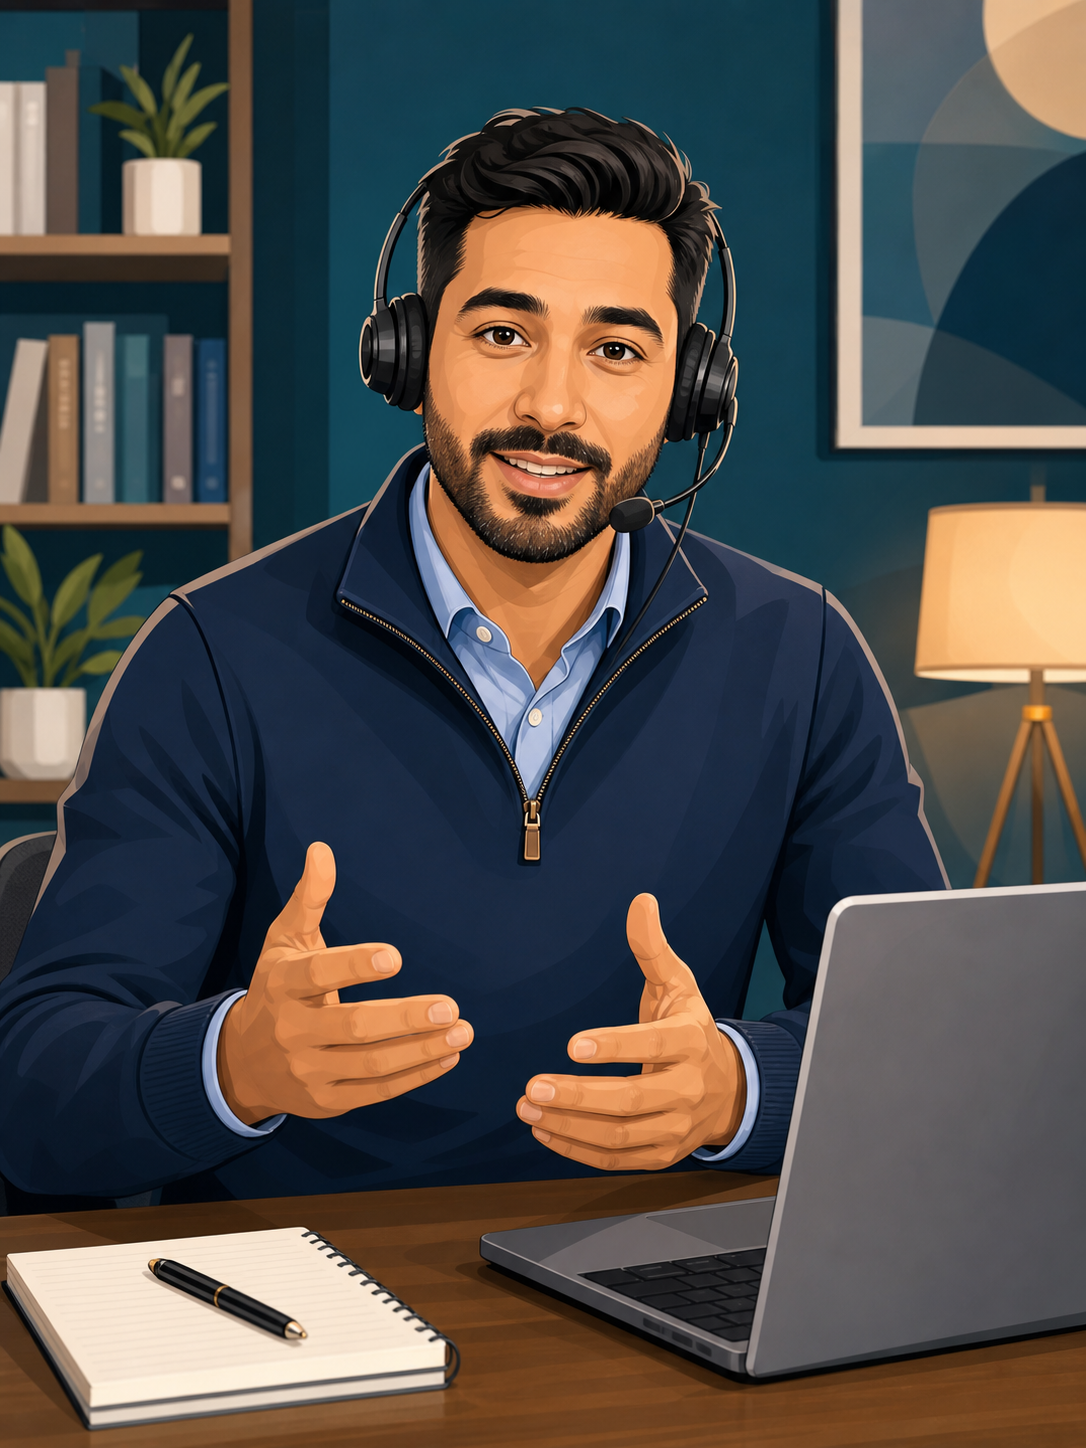
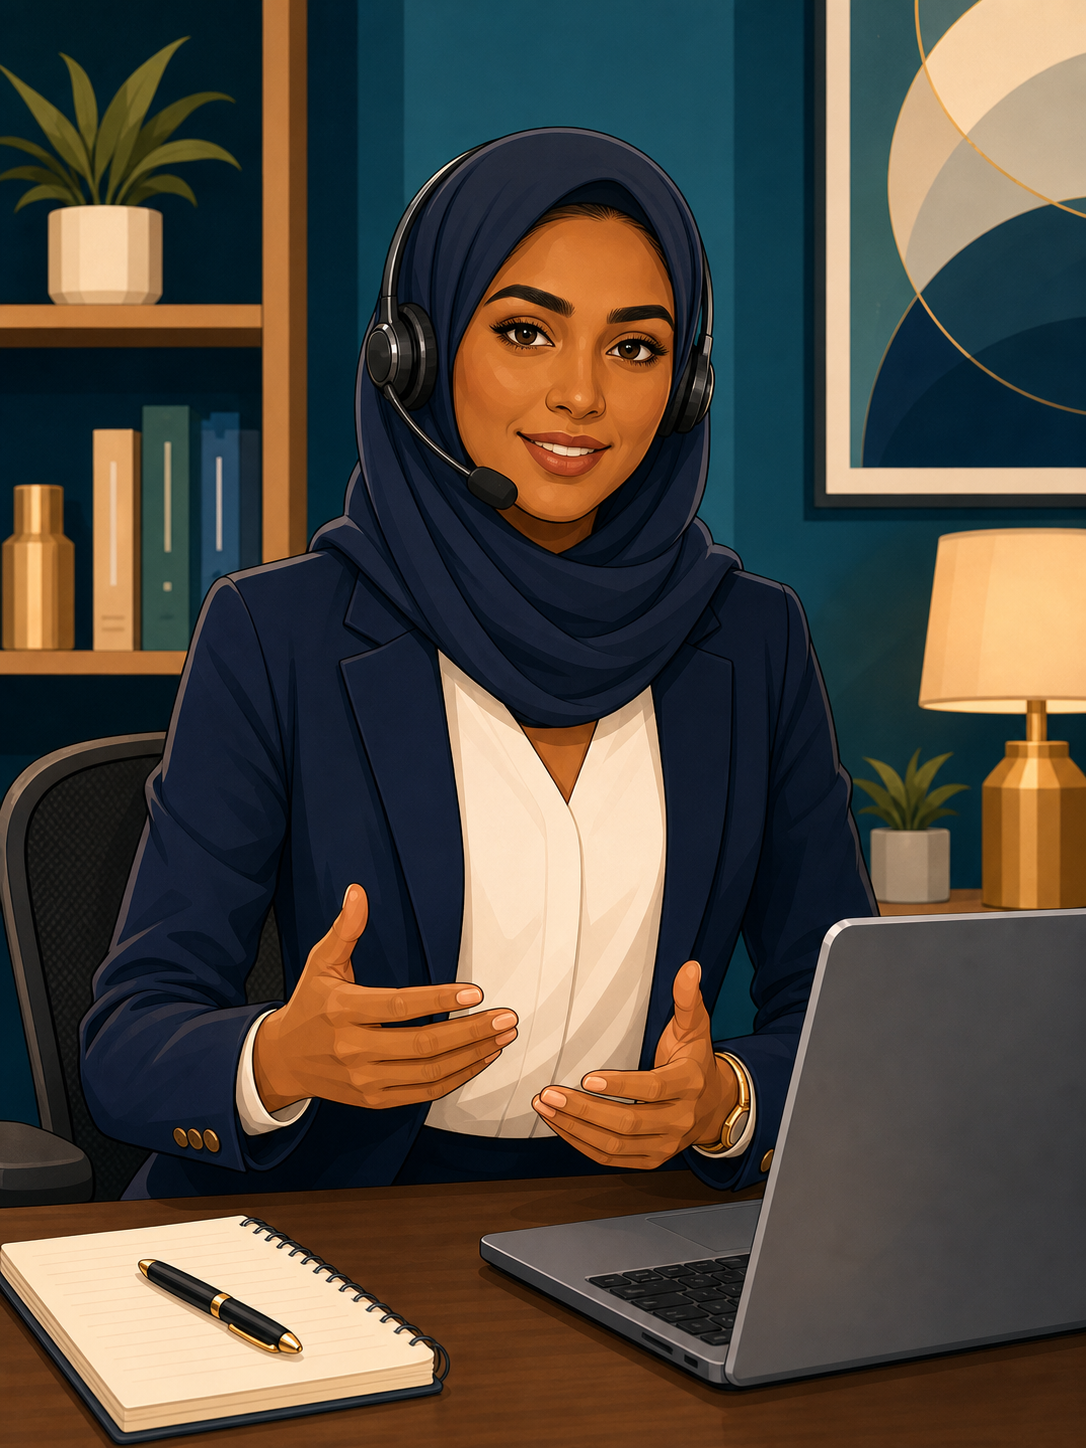
roadmap added

diff --git a/src/App.css b/src/App.css
@@ -438,7 +438,8 @@ button {
 }
 
 .nav-coral {
-  animation: hot-tab-pulse 1.9s ease-in-out infinite;
+  transform-origin: center;
+  animation: roadmap-heartbeat 1.65s ease-in-out infinite;
 }
 
 .nav-coral::after {
@@ -656,6 +657,41 @@ button {
     box-shadow:
       0 12px 28px rgba(127, 50, 31, 0.18),
       0 0 0 5px rgba(255, 115, 72, 0.16);
+  }
+}
+
+@keyframes roadmap-heartbeat {
+  0%,
+  100% {
+    transform: scale(1);
+    box-shadow:
+      0 8px 18px rgba(7, 22, 47, 0.1),
+      0 0 0 0 rgba(215, 169, 40, 0);
+  }
+
+  14% {
+    transform: scale(1.045);
+    box-shadow:
+      0 14px 30px rgba(7, 22, 47, 0.16),
+      0 0 0 4px rgba(215, 169, 40, 0.18);
+  }
+
+  24% {
+    transform: scale(1);
+    box-shadow:
+      0 8px 18px rgba(7, 22, 47, 0.1),
+      0 0 0 0 rgba(215, 169, 40, 0);
+  }
+
+  34% {
+    transform: scale(1.032);
+    box-shadow:
+      0 12px 26px rgba(7, 22, 47, 0.14),
+      0 0 0 3px rgba(215, 169, 40, 0.14);
+  }
+
+  48% {
+    transform: scale(1);
   }
 }
 

diff --git a/src/components/DeescalationGame.jsx b/src/components/DeescalationGame.jsx
@@ -1,6 +1,11 @@
 import { useMemo, useState } from 'react'
-import customerFace from '../assets/customer-face.png'
 import callCoach from '../assets/call-coach.png'
+import customerAndre from '../assets/customer-andre.png'
+import customerCole from '../assets/customer-cole.png'
+import customerJules from '../assets/customer-jules.png'
+import customerMara from '../assets/customer-mara.png'
+import customerPriya from '../assets/customer-priya.png'
+import customerSam from '../assets/customer-sam.png'
 
 const dispositionLevels = [
   {
@@ -109,6 +114,7 @@ const customerScenarios = [
   {
     name: 'Mara',
     role: 'Subscriber Paid firefighter',
+    portrait: customerMara,
     concern:
       'Mara says her FirstNet bill looks higher than expected and she is angry because she thought AutoPay and paperless billing were already included.',
     context:
@@ -122,6 +128,7 @@ const customerScenarios = [
   {
     name: 'Andre',
     role: 'ER nurse',
+    portrait: customerAndre,
     concern:
       'Andre wants FirstNet and Family, but his spouse thinks every family line will get FirstNet priority access.',
     context:
@@ -135,6 +142,7 @@ const customerScenarios = [
   {
     name: 'Jules',
     role: 'Agency administrator',
+    portrait: customerJules,
     concern:
       'Jules is upset because they do not know whether a department account should use Subscriber Paid or Agency Paid setup.',
     context:
@@ -148,6 +156,7 @@ const customerScenarios = [
   {
     name: 'Priya',
     role: 'New FirstNet phone user',
+    portrait: customerPriya,
     concern:
       'Priya is frustrated because her compatible phone needs eSIM activation and she does not know where to start.',
     context:
@@ -161,6 +170,7 @@ const customerScenarios = [
   {
     name: 'Cole',
     role: 'Field supervisor',
+    portrait: customerCole,
     concern:
       'Cole is worried because personnel in the field need support and a device diagnostic path during an incident.',
     context:
@@ -174,6 +184,7 @@ const customerScenarios = [
   {
     name: 'Sam',
     role: 'Volunteer responder',
+    portrait: customerSam,
     concern:
       'Sam says eligibility feels confusing and does not know whether to trust a job title alone.',
     context:
@@ -264,14 +275,14 @@ function buildAdvice(result, didResolve) {
     .map((checkpoint) => checkpoint.coach)
 
   if (didResolve) {
-    return `ResolveLab coaching: Complete call flow. You used ${matchedLabels.join(', ') || 'calming language'} and covered every script checkpoint before closing.`
+    return `Scenario coaching: Complete call flow. You used ${matchedLabels.join(', ') || 'calming language'} and covered every script checkpoint before closing.`
   }
 
   if (result.reduction > 0) {
-    return `ResolveLab coaching: Good progress, but the customer is not fully resolved until every script checkpoint is covered. Next, add: ${missingCheckpoints.join(' ')}`
+    return `Scenario coaching: Good progress, but the customer is not fully resolved until every script checkpoint is covered. Next, add: ${missingCheckpoints.join(' ')}`
   }
 
-  return `ResolveLab coaching: Try again with the full call flow. ${missingCheckpoints.join(' ')}`
+  return `Scenario coaching: Try again with the full call flow. ${missingCheckpoints.join(' ')}`
 }
 
 function buildCustomerReply(scenario, result, didResolve, nextDisposition, requestedInfo) {
@@ -422,7 +433,7 @@ export default function DeescalationGame() {
       <section className="deescalation-brief">
         <div>
           <p className="eyebrow">Call Center Practice</p>
-          <h2>ResolveLab</h2>
+          <h2>Scenario</h2>
           <p>
             Type a response that validates the customer, takes ownership, clarifies the
             FirstNet issue, and gives a next step. Better language lowers the customer&apos;s
@@ -456,7 +467,12 @@ export default function DeescalationGame() {
 
         <div className={`customer-panel ${disposition.className}`}>
           <div className="customer-header">
-            <img className="customer-face" src={customerFace} alt={`${scenario.name} customer portrait`} />
+            <img
+              key={scenario.name}
+              className="customer-face"
+              src={scenario.portrait}
+              alt={`${scenario.name} customer portrait`}
+            />
             <div>
               <p className="eyebrow">Customer</p>
               <h3>{scenario.name}</h3>
@@ -477,7 +493,7 @@ export default function DeescalationGame() {
 
           <article className="customer-context">
             <h4>Simulation note</h4>
-            <p>Verification and account details in ResolveLab are fictional practice data only.</p>
+            <p>Verification and account details in Scenario are fictional practice data only.</p>
           </article>
 
           <div className="calm-meter" aria-label={`Customer disposition: ${disposition.label}`}>
@@ -494,7 +510,7 @@ export default function DeescalationGame() {
       </section>
 
       <section className="response-panel">
-        <article className="conversation-log" aria-label="Live ResolveLab conversation">
+        <article className="conversation-log" aria-label="Live Scenario conversation">
           <div className="conversation-log-header">
             <div>
               <p className="eyebrow">Live Interaction</p>
@@ -589,13 +605,13 @@ export default function DeescalationGame() {
       </section>
 
       {advicePopup && (
-        <div className="coach-advice-popover" role="dialog" aria-live="polite" aria-label="ResolveLab coaching">
+        <div className="coach-advice-popover" role="dialog" aria-live="polite" aria-label="Scenario coaching">
           <button className="coach-popover-close" type="button" onClick={closeAdvice} aria-label="Close advice">
             ×
           </button>
           <img className="coach-popover-avatar" src={callCoach} alt="Professional call coach" />
           <div>
-            <p className="eyebrow">ResolveLab Assist</p>
+            <p className="eyebrow">Scenario Assist</p>
             <h3>{advicePopup.didResolve ? 'Customer stabilized.' : 'Quick coaching note.'}</h3>
             <p>{advicePopup.advice}</p>
           </div>

diff --git a/src/App.jsx b/src/App.jsx
@@ -56,7 +56,7 @@ const navItems = [
   },
   {
     id: 'questions',
-    label: 'Call Questions',
+    label: 'QA Essentials',
     theme: 'indigo',
     description: 'Essential questions by customer need',
   },
@@ -86,7 +86,7 @@ const navItems = [
   },
   {
     id: 'deescalation',
-    label: 'ResolveLab',
+    label: 'Scenario',
     theme: 'service',
     description: 'Call-center customer calming simulator',
   },
@@ -172,7 +172,7 @@ const eagleEyeSummaries = {
     ],
   },
   deescalation: {
-    title: 'ResolveLab in plain words',
+    title: 'Scenario in plain words',
     points: [
       'Start by acknowledging the customer concern before explaining facts.',
       'Take ownership, then clarify the FirstNet topic: bill, plan, device, eligibility, or support path.',
@@ -183,7 +183,7 @@ const eagleEyeSummaries = {
     title: 'Script Studio in plain words',
     points: [
       'Each script section is built from existing app data instead of invented plan claims.',
-      'The colored source badges show whether a line came from Billing, Eligibility, Index Cards, SSO, or ResolveLab.',
+      'The colored source badges show whether a line came from Billing, Eligibility, Index Cards, SSO, or Scenario.',
       'Use the text boxes to adjust tone, but verify facts before quoting prices or eligibility to a customer.',
     ],
   },
@@ -280,7 +280,7 @@ function App() {
         <div>
           <p className="eyebrow">FirstNet professional learning guide</p>
           <h1>Lyceum</h1>
-          <p style={{ textAlign: 'right', color: 'gold' }}>created by Jordan Wofford</p>
+          <p style={{ textAlign: 'right', color: 'gold' }}>powered by Jmwofford</p>
           <p>
             A guided FirstNet study workspace for billing, eligibility, index cards,
             self-service options, scenarios, and quizzes.

diff --git a/src/components/SupportAssistant.jsx b/src/components/SupportAssistant.jsx
@@ -35,7 +35,7 @@ const routingRules = [
     tab: 'deescalation',
     keywords: ['resolvelab', 'resolve', 'deescalation', 'de-escalation', 'calm', 'angry', 'customer', 'call', 'center'],
     reply:
-      'I opened ResolveLab. Help the customer stabilize with empathy, ownership, and a clear next step.',
+      'I opened Scenario. Help the customer stabilize with empathy, ownership, and a clear next step.',
   },
 ]
 
@@ -50,7 +50,7 @@ function findRoute(message) {
 export default function SupportAssistant({ activeTab, navItems, onNavigate }) {
   const [message, setMessage] = useState('')
   const [assistantReply, setAssistantReply] = useState(
-    'Ask me where to study next. I can open Billing, Eligibility, Index Cards, SSO Options, MESA Breaker, or ResolveLab.',
+    'Ask me where to study next. I can open Billing, Eligibility, Index Cards, SSO Options, MESA Breaker, or Scenario.',
   )
 
   function submitMessage(event) {
@@ -64,7 +64,7 @@ export default function SupportAssistant({ activeTab, navItems, onNavigate }) {
 
     if (!route) {
       setAssistantReply(
-        'I can route you to Billing, Eligibility, Index Cards, SSO Options, MESA Breaker, or ResolveLab. Try asking for one of those sections.',
+        'I can route you to Billing, Eligibility, Index Cards, SSO Options, MESA Breaker, or Scenario. Try asking for one of those sections.',
       )
       setMessage('')
       return
@@ -91,7 +91,7 @@ export default function SupportAssistant({ activeTab, navItems, onNavigate }) {
           type="text"
           value={message}
           onChange={(event) => setMessage(event.target.value)}
-          placeholder="Try: show me billing, ResolveLab, MESA breaker..."
+          placeholder="Try: show me billing, Scenario, MESA breaker..."
           aria-label="Ask the support guide where to navigate"
         />
         <button type="submit">Go</button>

diff --git a/src/components/ScriptStudio.jsx b/src/components/ScriptStudio.jsx
@@ -29,7 +29,7 @@ const sourceMeta = {
     className: 'source-sso',
   },
   resolveLab: {
-    label: 'ResolveLab',
+    label: 'Scenario',
     className: 'source-resolvelab',
   },
 }
@@ -150,7 +150,7 @@ export default function ScriptStudio({ billingGuide, accountRoadmap, selfService
     <div className="script-studio">
       <section className="script-generated-layout" aria-label="Generated customer script">
         <aside className="script-studio-center">
-          <img className="script-specialist-avatar" src={scriptSpecialist} alt="Professional script specialist" />
+          <img className="script-specialist-avatar" src={scriptSpecialist} alt="Arab woman script specialist" />
           <div>
             <p className="eyebrow">Script Studio</p>
             <h3>Collaborative Script</h3>